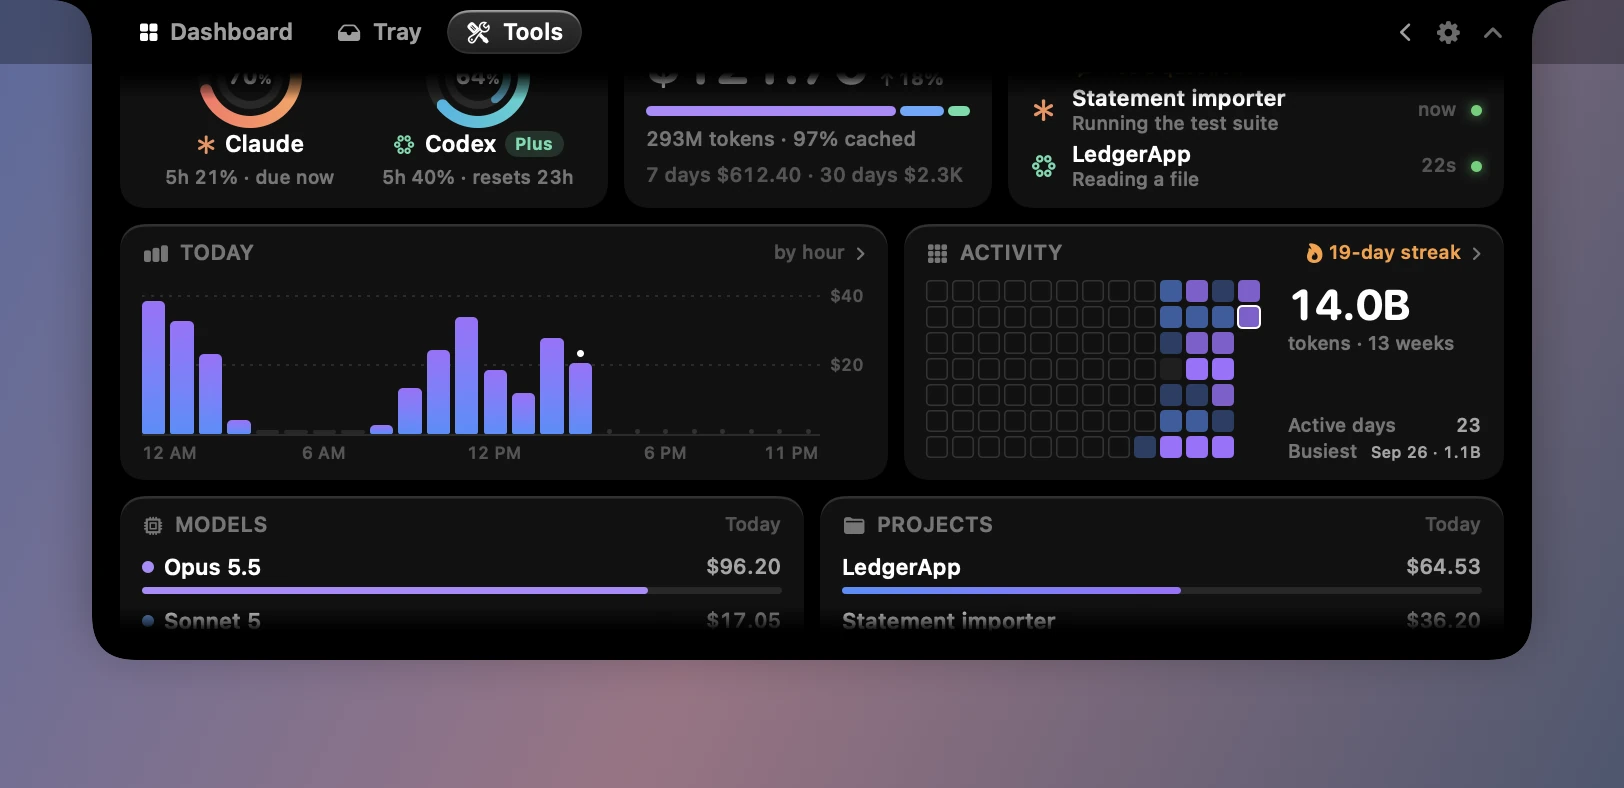
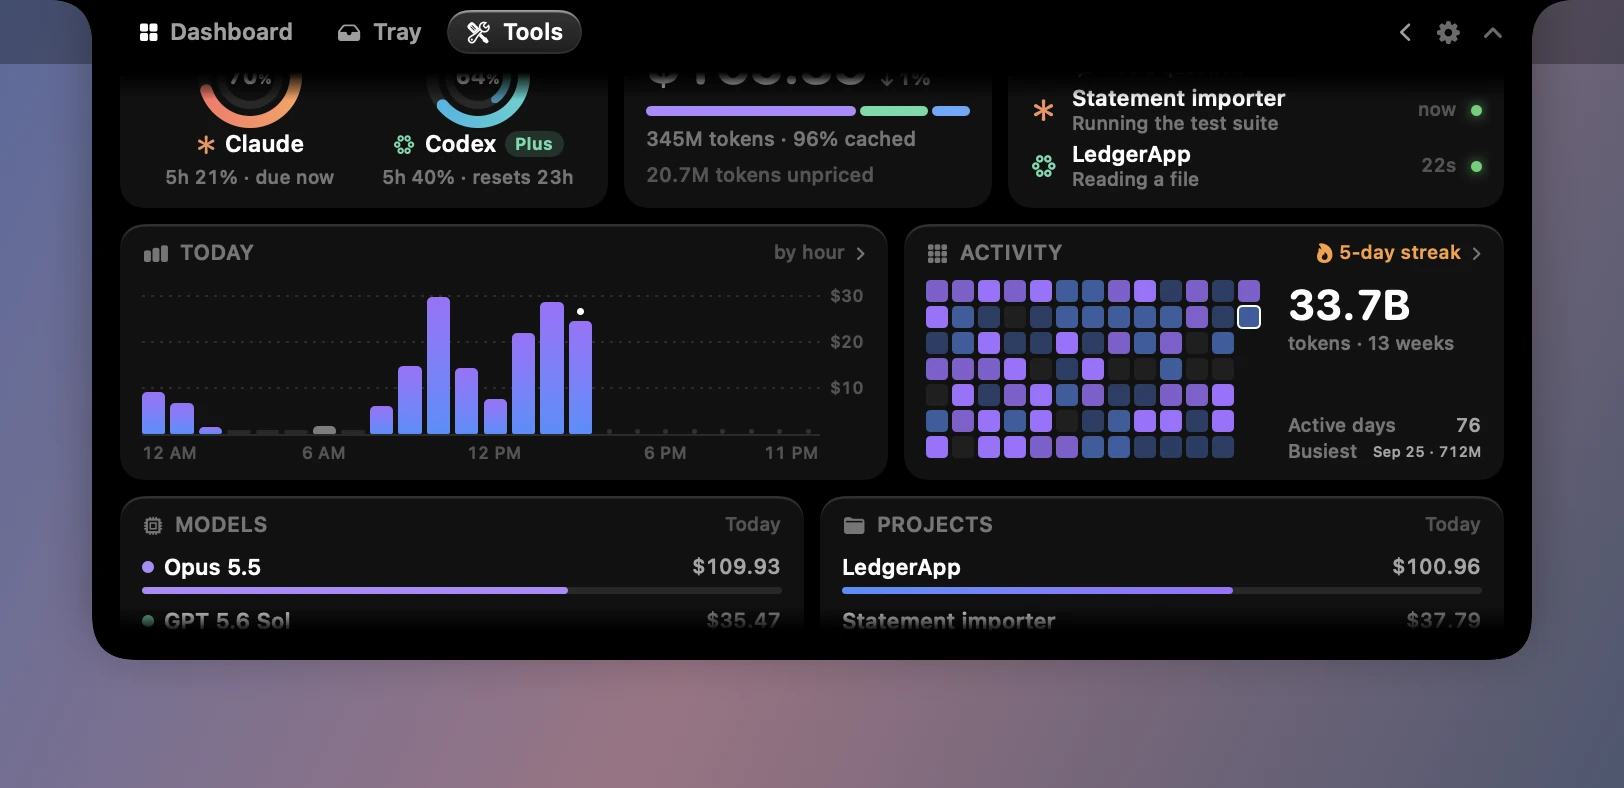
Dashboard views share one data set

diff --git a/404.html b/404.html
@@ -167,7 +167,7 @@
           <div class="scrollx" tabindex="0" role="group" aria-label="Interactive AI usage dashboard. Scroll sideways on small screens.">
             <div class="sessions__imgwrap"><div class="dash" data-dash tabindex="-1">
               <img src="/oriel-preview/app/ai-home.webp" width="1624" height="788" loading="lazy" decoding="async"
-                   alt="The AI usage dashboard with Limits rings at 70 and 64 percent, an API value of $121.76 for today, a Working now list with one session that has a question, an hourly bar chart and a 13-week activity heatmap." />
+                   alt="The AI usage dashboard with Limits rings at 70 and 64 percent, an API value of $165.35 for today, a Working now list with one session that has a question, an hourly bar chart and a 13-week activity heatmap with a 5-day streak." />
               <svg class="pins" viewBox="0 0 1624 788" aria-hidden="true" focusable="false">
                 <g class="pin" style="--d:0ms"><circle class="pin__ring" pathLength="1" cx="124" cy="76" r="25"/><circle class="pin__dot" cx="124" cy="76" r="19"/><text x="124" y="83" text-anchor="middle">1</text></g>
                 <g class="pin" style="--d:220ms"><circle class="pin__ring" pathLength="1" cx="629" cy="76" r="25"/><circle class="pin__dot" cx="629" cy="76" r="19"/><text x="629" y="83" text-anchor="middle">2</text></g>
@@ -176,7 +176,7 @@
             </div></div>
           </div>
           <div class="dash__controls" data-dash-controls></div>
-          <figcaption>Real renders, fictional data. Each view is its own render, so its invented figures don’t always match the others.</figcaption>
+          <figcaption>Real renders of the app, drawn from one set of fictional data.</figcaption>
         </figure>
 
         <ol class="sessions__notes">
@@ -280,7 +280,7 @@
           <p>The Mac’s battery and, once you ask for them, your accessories’: keyboard, mouse, trackpad and earbuds with their case. No Bluetooth permission needed; accessories are read only while the widget is on screen.</p>
         </article>
         <article class="tour__item" data-tour-item="ai" data-title="AI sessions" data-blurb="Limits, value and what’s running" data-ratio="1624/788">
-          <figure><img src="/oriel-preview/app/ai-sessions.webp" width="1624" height="788" loading="lazy" decoding="async" alt="The AI usage dashboard: Limits rings for two agents, an API value card, a Working now list, today by hour and an activity heatmap." /></figure>
+          <figure><img src="/oriel-preview/app/ai-home.webp" width="1624" height="788" loading="lazy" decoding="async" alt="The AI usage dashboard: Limits rings for two agents, an API value card, a Working now list, today by hour and an activity heatmap." /></figure>
           <h3>AI sessions</h3>
           <p>A page of its own for Claude Code and Codex: plan limits, what your tokens would cost at list prices, and which sessions are working or waiting on you. The spotlight is just above.</p>
         </article>

diff --git a/index.html b/index.html
@@ -167,7 +167,7 @@
           <div class="scrollx" tabindex="0" role="group" aria-label="Interactive AI usage dashboard. Scroll sideways on small screens.">
             <div class="sessions__imgwrap"><div class="dash" data-dash tabindex="-1">
               <img src="/oriel-preview/app/ai-home.webp" width="1624" height="788" loading="lazy" decoding="async"
-                   alt="The AI usage dashboard with Limits rings at 70 and 64 percent, an API value of $121.76 for today, a Working now list with one session that has a question, an hourly bar chart and a 13-week activity heatmap." />
+                   alt="The AI usage dashboard with Limits rings at 70 and 64 percent, an API value of $165.35 for today, a Working now list with one session that has a question, an hourly bar chart and a 13-week activity heatmap with a 5-day streak." />
               <svg class="pins" viewBox="0 0 1624 788" aria-hidden="true" focusable="false">
                 <g class="pin" style="--d:0ms"><circle class="pin__ring" pathLength="1" cx="124" cy="76" r="25"/><circle class="pin__dot" cx="124" cy="76" r="19"/><text x="124" y="83" text-anchor="middle">1</text></g>
                 <g class="pin" style="--d:220ms"><circle class="pin__ring" pathLength="1" cx="629" cy="76" r="25"/><circle class="pin__dot" cx="629" cy="76" r="19"/><text x="629" y="83" text-anchor="middle">2</text></g>
@@ -176,7 +176,7 @@
             </div></div>
           </div>
           <div class="dash__controls" data-dash-controls></div>
-          <figcaption>Real renders, fictional data. Each view is its own render, so its invented figures don’t always match the others.</figcaption>
+          <figcaption>Real renders of the app, drawn from one set of fictional data.</figcaption>
         </figure>
 
         <ol class="sessions__notes">
@@ -280,7 +280,7 @@
           <p>The Mac’s battery and, once you ask for them, your accessories’: keyboard, mouse, trackpad and earbuds with their case. No Bluetooth permission needed; accessories are read only while the widget is on screen.</p>
         </article>
         <article class="tour__item" data-tour-item="ai" data-title="AI sessions" data-blurb="Limits, value and what’s running" data-ratio="1624/788">
-          <figure><img src="/oriel-preview/app/ai-sessions.webp" width="1624" height="788" loading="lazy" decoding="async" alt="The AI usage dashboard: Limits rings for two agents, an API value card, a Working now list, today by hour and an activity heatmap." /></figure>
+          <figure><img src="/oriel-preview/app/ai-home.webp" width="1624" height="788" loading="lazy" decoding="async" alt="The AI usage dashboard: Limits rings for two agents, an API value card, a Working now list, today by hour and an activity heatmap." /></figure>
           <h3>AI sessions</h3>
           <p>A page of its own for Claude Code and Codex: plan limits, what your tokens would cost at list prices, and which sessions are working or waiting on you. The spotlight is just above.</p>
         </article>

diff --git a/app/PROVENANCE.md b/app/PROVENANCE.md
@@ -13,4 +13,4 @@ Every `.webp` here is a **genuine render of the LocalNook app drawn with fiction
 - **Still on-screen fixtures worth a human glance before launch:** the media rows name real songs and artists (titles only, invented playback state); the Devices render shows a device called "Studio AirPods Pro 2" and Apple's symbol for it (see docs/LAUNCH_READINESS.md, "Apple marks").
 - **Not used on purpose:** `~/Desktop/LocalNook-acceptance/*.png` (acceptance screenshots that may contain a real session list) and `~/Downloads/LocalNook-24-second-preview.mp4` (unknown provenance). They were never opened.
 
-- **AI dashboard explorer (2026-10-12):** `ai-*.webp` are the sealed renderer's scenes `ai-dashboard`, `-middle`, `-end`, `-period`, `-list`, `-today`, `-today-hour`, `-today-hour-tokens`, `-today-calendar`, `-today-picked`, `-activity`, `-activity-day`, `-activity-day-dollars`, `-activity-week`. The renderer draws the drill-downs from a different invented snapshot than the main dashboard, so figures differ between views; the site says so.
+- **AI dashboard explorer (2026-10-12):** `ai-*.webp` are the sealed renderer's scenes `ai-dashboard`, `-middle`, `-end`, `-period`, `-list`, `-today`, `-today-hour`, `-today-hour-tokens`, `-today-calendar`, `-today-picked`, `-activity`, `-activity-day`, `-activity-day-dollars`, `-activity-week`. Rendered with `--preview-one-history` (native branch `preview/one-dataset`, a 4-line change to `PreviewRenderer.swift`, not merged), so every view is staged from the same invented history and the figures agree across views.
